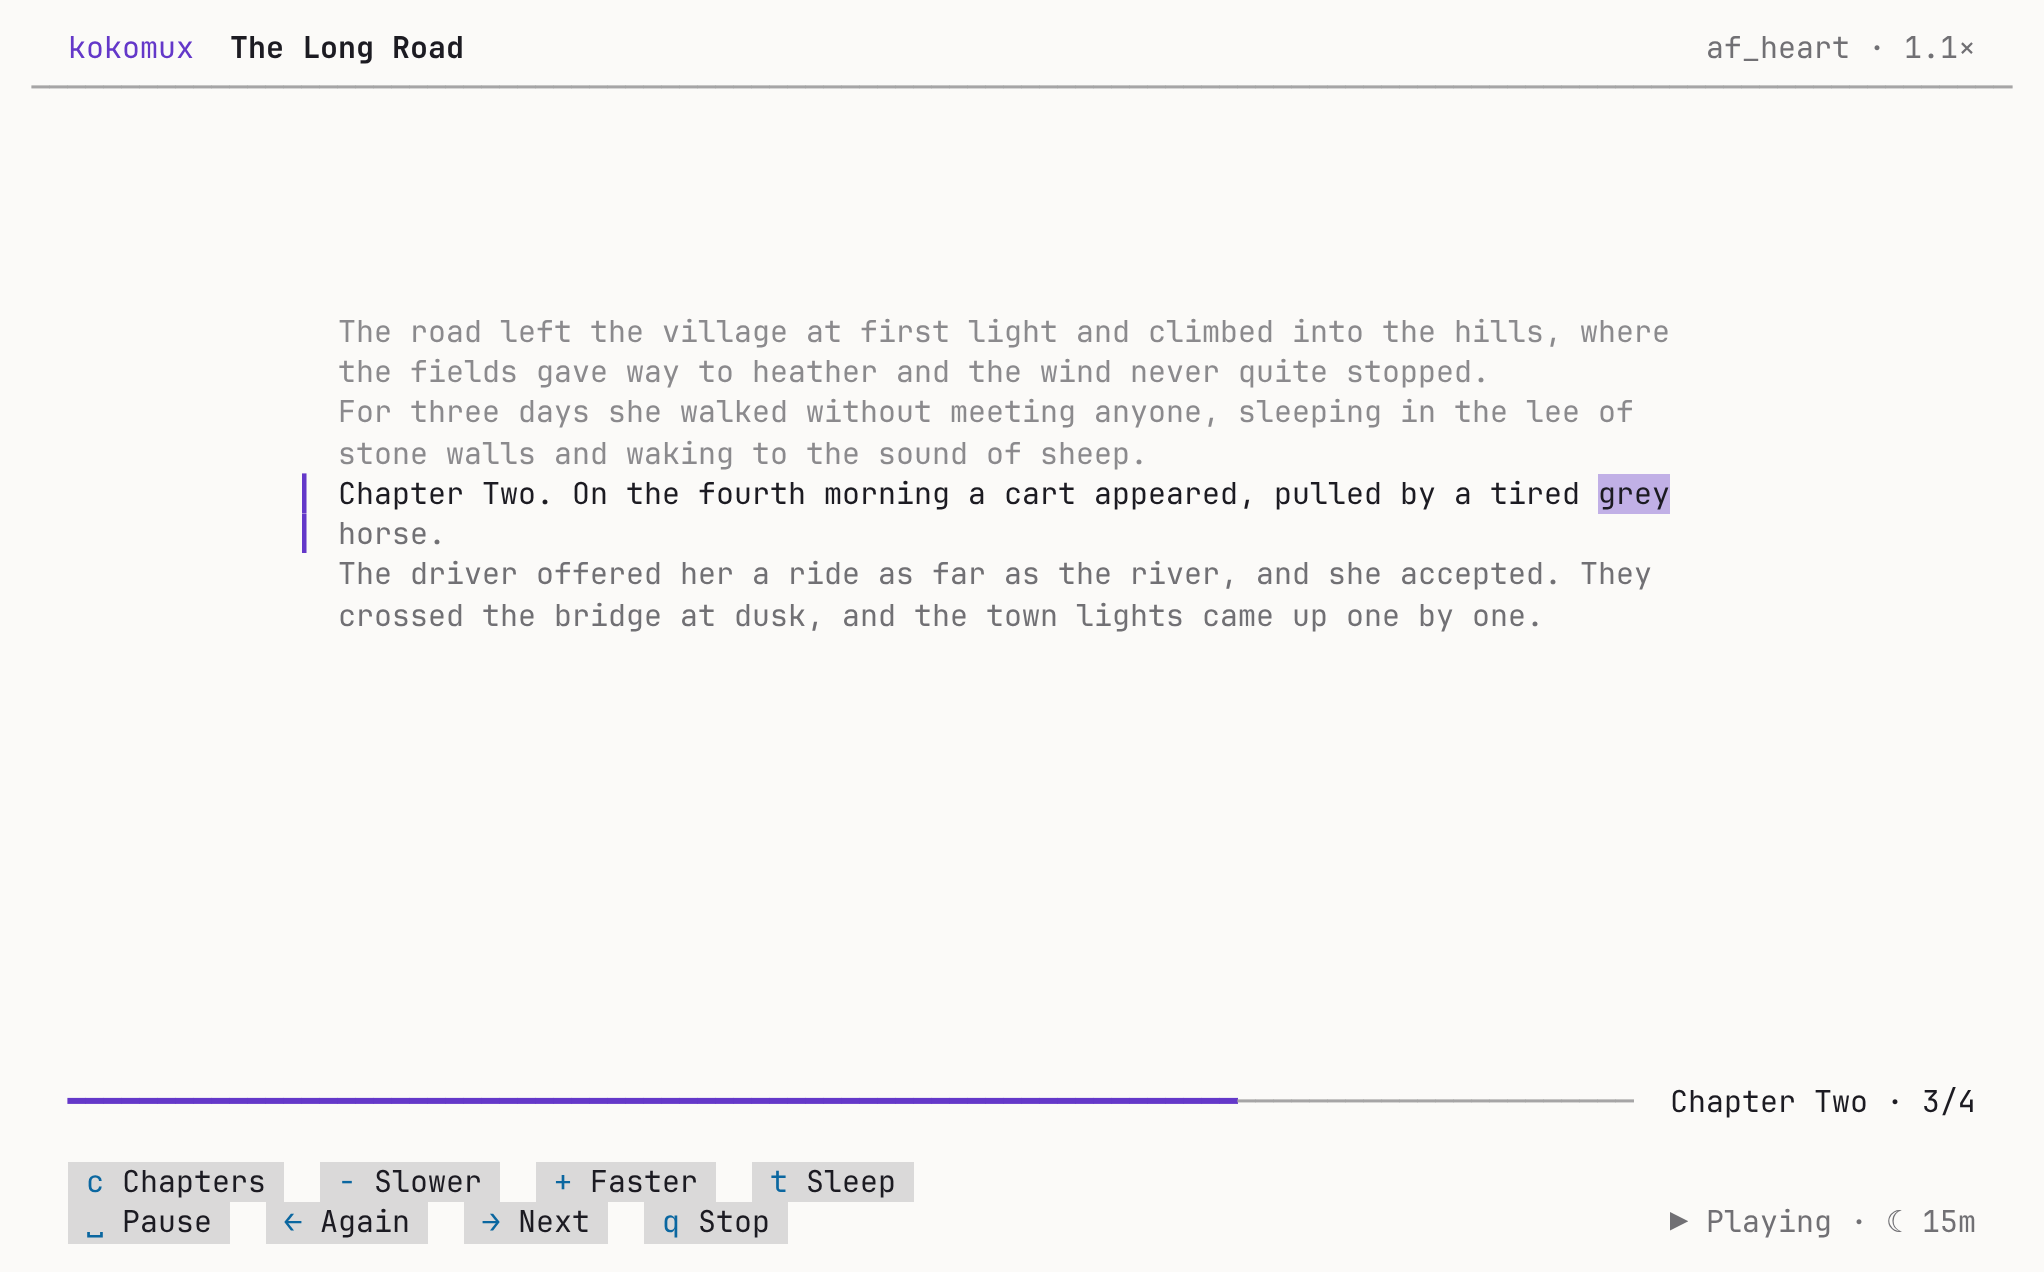
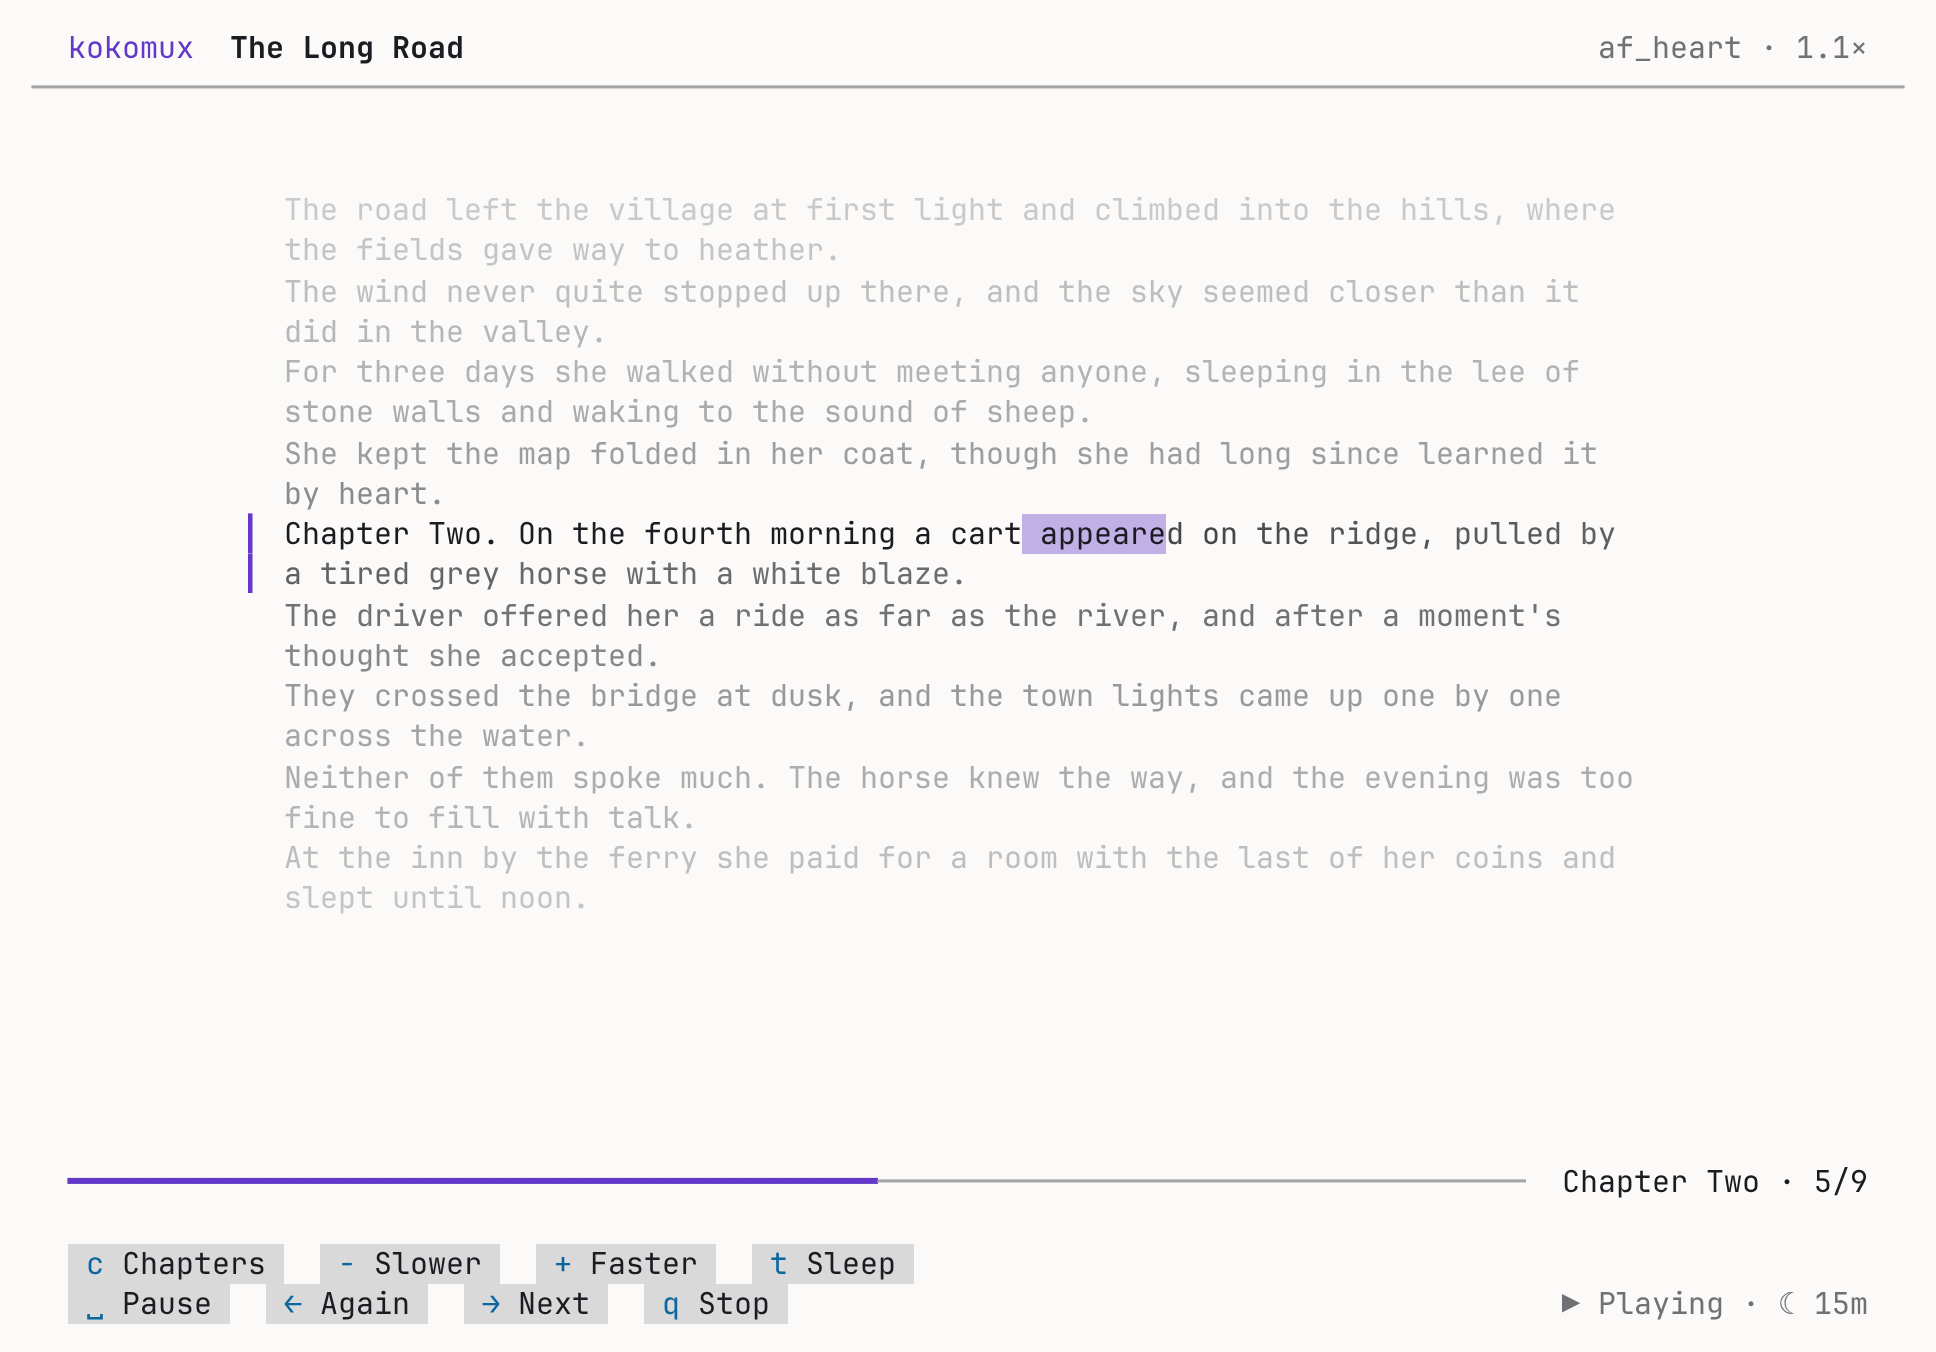
The reader's focus effect: text fades with distance from the voice (v0.10.0)
- Like a camera's depth of field, the reading column fades the further a
  line is from the part being read, by quarter golden steps (φ^(−i/4)),
  never fainter than φ⁻⁴. The fade's pace scales with the screen height,
  so phones and wide screens look alike.
- Ahead of the voice, the next word sits halfway between full and φ⁻¹, and
  the words after it settle back to φ⁻¹ over a golden step per 12
  characters, so the eye is led forward.
- When a part ends it eases out of focus over 382 ms (smoothstep), drawn
  from the player's tick, instead of dropping at once.
- theme_tone: any level between background and text, cached per 1%.
- Settings → Focus effect (KOKORO_FOCUS, on by default); off shows the
  text evenly, as before.
- tests/test_reader.py: the fade's order and limits, the words ahead, the
  ease, and focus off. A redraw stays about 1 ms.
- New reader screenshots.

Claude-Session: https://claude.ai/code/session_01V1vUdgunxtcBTY2bssTBXU

diff --git a/tests/test_reader.py b/tests/test_reader.py
@@ -1,0 +1,120 @@
+"""Tests for the reader's focus effect (src/tui.sh with src/theme.sh).
+
+Run with:  python3 tests/test_reader.py   (or pytest)
+
+The reading column is drawn as it would be on a 104×34 dark terminal, and the
+colour of each row is read back as a level: 0 is the background, 1000 the text
+colour. Text should fade with its distance from the part being read.
+"""
+import os
+import re
+import subprocess
+import tempfile
+
+HERE = os.path.dirname(os.path.abspath(__file__))
+SRC = os.path.join(HERE, "..", "src")
+BG, FG = (0x16, 0x16, 0x1E), (0xE8, 0xE6, 0xF0)
+PARTS = [
+    "The road left the village at first light and climbed into the hills, where the fields gave way to heather.",
+    "The wind never quite stopped up there, and the sky seemed closer than it did in the valley.",
+    "For three days she walked without meeting anyone, sleeping in the lee of stone walls.",
+    "She kept the map folded in her coat, though she had long since learned it by heart.",
+    "Chapter Two. On the fourth morning a cart appeared on the ridge, pulled by a tired grey horse with a white blaze.",
+    "The driver offered her a ride as far as the river, and after a moment's thought she accepted.",
+    "They crossed the bridge at dusk, and the town lights came up one by one across the water.",
+    "Neither of them spoke much. The horse knew the way, and the evening was too fine to fill with talk.",
+    "At the inn by the ferry she paid for a room with the last of her coins and slept until noon.",
+]
+
+
+def draw(focus=1, a=41, b=49, ease_ms=None, extra=""):
+    """Draw the column with part 5 playing and bytes a..b lit; return {row: [(level, text)]}."""
+    with tempfile.TemporaryDirectory() as d:
+        os.makedirs(os.path.join(d, "stream"))
+        for i, t in enumerate(PARTS, 1):
+            with open(os.path.join(d, "stream", f"{i:04d}.txt"), "w") as f:
+                f.write(t)
+        ease = f"now_ms; TUI_EASE_AT=$(( NOW - {ease_ms} ));" if ease_ms is not None else ""
+        script = f"""
+now_ms() {{ local t=${{EPOCHREALTIME//[!0-9]/}}; NOW=$(( t / 1000 )); }}
+. {SRC}/theme.sh; theme_apply; . {SRC}/tui.sh
+tmpd={d}; TW=104 TH=34 CW=76 LM=14 TUI_FOCUS={focus}
+tui_hist=(1 2 3 4); TUI_PART=5 TUI_PARTS=9 TUI_A={a} TUI_B={b}
+{ease} {extra}
+tui_text; echo "ease_at=$TUI_EASE_AT" >&2
+"""
+        env = {"PATH": os.environ["PATH"], "HOME": d, "KOKORO_TRUECOLOR": "1", "LANG": "C.UTF-8"}
+        out = subprocess.run(["bash", "-c", script], env=env, capture_output=True, text=True, check=True).stderr
+    rows = {}
+    for m in re.finditer(r"\033\[(\d+);1H\033\[2K\033\[\d+G(.*?)(?=\033\[\d+;1H|\033\[\?2026l)", out, re.S):
+        segs, level = [], 1000                              # 1000: the terminal's own text colour
+        for tok in re.split(r"(\033\[[0-9;?]*[A-Za-z])", m.group(2)):
+            c = re.fullmatch(r"\033\[38;2;(\d+);\d+;\d+m", tok)
+            if c:
+                level = round(1000 * (int(c.group(1)) - BG[0]) / (FG[0] - BG[0]))
+            elif tok == "\033[0m":
+                level = 1000
+            elif not tok.startswith("\033") and tok.strip() and tok != "▎":   # (the bar marking this part)
+                segs.append((level, tok))
+        rows[int(m.group(1))] = segs
+    return rows, out
+
+
+def levels(rows):
+    """Each row's level (its first coloured segment), top to bottom, with the current part marked."""
+    return [(r, segs[0][0], segs[0][1]) for r, segs in sorted(rows.items()) if segs]
+
+
+def test_text_fades_with_distance_from_the_part_being_read():
+    rows, _ = draw()
+    lv = levels(rows)
+    cur = [i for i, (_, _, t) in enumerate(lv) if t.startswith("Chapter Two")][0]
+    above = [l for _, l, _ in lv[:cur]]
+    below = [l for _, l, _ in lv[cur + 2:]]                 # after this part's two rows
+    assert above == sorted(above), above                    # brighter towards the middle
+    assert below == sorted(below, reverse=True), below
+    assert above[-1] >= 480 and below[0] >= 600            # next to it: still easy to read
+    assert above[0] < 300 and below[-1] < 300              # at the edges: out of focus
+    assert min(above + below) >= 140                       # never fainter than φ⁻⁴
+
+
+def test_the_words_just_ahead_of_the_voice_are_in_sharpest_focus():
+    rows, _ = draw()
+    r = [r for r, segs in rows.items() if segs and segs[0][1].startswith("Chapter Two")][0]
+    line = rows[r] + rows[r + 1]                            # this part's two rows
+    assert line[0][0] == 1000                               # spoken: full
+    ahead = [l for l, _ in line[2:]]                        # after the lit word
+    assert ahead == sorted(ahead, reverse=True), ahead
+    assert ahead[0] >= 780 and ahead[-1] < 700
+
+
+def test_the_part_just_heard_eases_out_of_focus():
+    settled, _ = draw()
+    mid, _ = draw(ease_ms=191)
+    done, out = draw(ease_ms=500)
+    row = [r for r, segs in settled.items() if segs and segs[0][1].startswith("She kept")][0]
+    a, m, d = settled[row][0][0], mid[row][0][0], done[row][0][0]
+    assert a < m < 1000, (a, m)                             # halfway: between full and settled
+    assert d == a and "ease_at=0" in out                    # then it stops redrawing
+    far = [r for r, segs in settled.items() if segs and segs[0][1].startswith("The road")][0]
+    assert mid[far][0][0] == settled[far][0][0]             # only the part just heard eases
+
+
+def test_focus_off_shows_text_evenly():
+    rows, _ = draw(focus=0)
+    lv = {l for _, l, t in levels(rows) if not t.startswith(("Chapter Two", "a tired"))}
+    assert len(lv) == 2, lv                                 # heard, and still to come
+
+
+if __name__ == "__main__":
+    import sys
+    fails = 0
+    for name, fn in sorted(globals().items()):
+        if name.startswith("test_") and callable(fn):
+            try:
+                fn()
+                print("ok  ", name)
+            except AssertionError as e:
+                fails += 1
+                print("FAIL", name, e)
+    sys.exit(1 if fails else 0)

diff --git a/README.md b/README.md
@@ -66,7 +66,9 @@ kokoro --stop                             # stop playback
 
 ## The reader and the home screen
 
-On a terminal, `kokoro -p` opens a full-screen reader. Across the top are the title, voice and speed. In the middle is a reading column, with what you've heard above it, the part being read marked with a bar and the spoken word lit, and what's coming next dimmed below. The part being read sits on the golden line, 38% of the way down, where the eye naturally rests. At the bottom are a progress bar and a row of buttons. The column stays at a comfortable reading width, so it works on a phone held upright and just as well on a wide Samsung DeX or tablet screen. It follows the window when you resize it.
+On a terminal, `kokoro -p` opens a full-screen reader. Across the top are the title, voice and speed. In the middle is a reading column, with what you've heard above it, the part being read marked with a bar and the spoken word lit, and what's coming next dimmed below. The part being read sits on the golden line, 38% of the way down, where the eye naturally rests.
+
+**The focus effect.** Like a camera's depth of field, the text fades the further it is from the part being read, down to a faint ghost at the edges of the screen, so your eye stays on the line being spoken. Ahead of the voice, the next few words are in sharpest focus and the rest of the sentence settles behind them. When a part ends, it eases out of focus over about a third of a second as the next one comes in. The fade follows the golden ratio: a quarter of a golden step for every half-line or so, never fainter than 14.6% of the way from the background to the text. A terminal can't blur text, so the effect works with brightness alone. If you'd rather see everything evenly, turn off **Focus effect** in the settings (or set `KOKORO_FOCUS=0`). At the bottom are a progress bar and a row of buttons. The column stays at a comfortable reading width, so it works on a phone held upright and just as well on a wide Samsung DeX or tablet screen. It follows the window when you resize it.
 
 <p>
   <img src="docs/reader-wide.png" width="68%" alt="The reader on a wide screen: header, centred reading column with the spoken word highlighted, progress bar and buttons">
@@ -191,6 +193,7 @@ Before 0.8, a separate speech recogniser (Whistle) listened to each line to find
 - **Reading:**
   - **Full-screen reader:** on or off.
   - **Colours:** Auto, Dark or Light (see [Colours](#colours-dark-and-light)).
+  - **Focus effect:** text fades with its distance from the line being read; on or off.
   - **Light up words:** on or off.
   - **Highlight timing:** in steps of 20 ms, for when the highlight runs ahead of or behind the voice.
 - **While listening:** notification controls on or off.
@@ -261,6 +264,7 @@ The files in `src/` are the source. `./build.sh` bundles them into the single `i
 | `src/words.py` | word timings from Kokoro's per-sound timings (container side) |
 | `tests/test_words.py` | tests for word timings, on recorded Kokoro output: `python3 tests/test_words.py` |
 | `tests/test_books.py` | tests for reading EPUB, PDF and text: `python3 tests/test_books.py` |
+| `tests/test_reader.py` | tests for the reader's focus effect: `python3 tests/test_reader.py` |
 | `tests/test_theme.py` | tests for the colours: contrast on 15 terminal themes, the golden steps, asking the terminal: `python3 tests/test_theme.py` |
 | `src/setup-container.sh` | installs everything inside the container |
 | `src/install.sh` | installer template (UI, checks, steps) |
